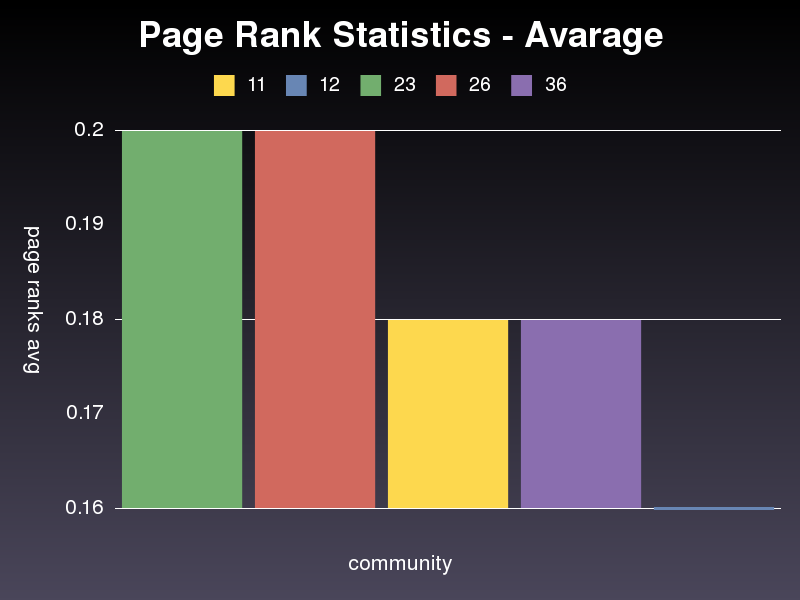
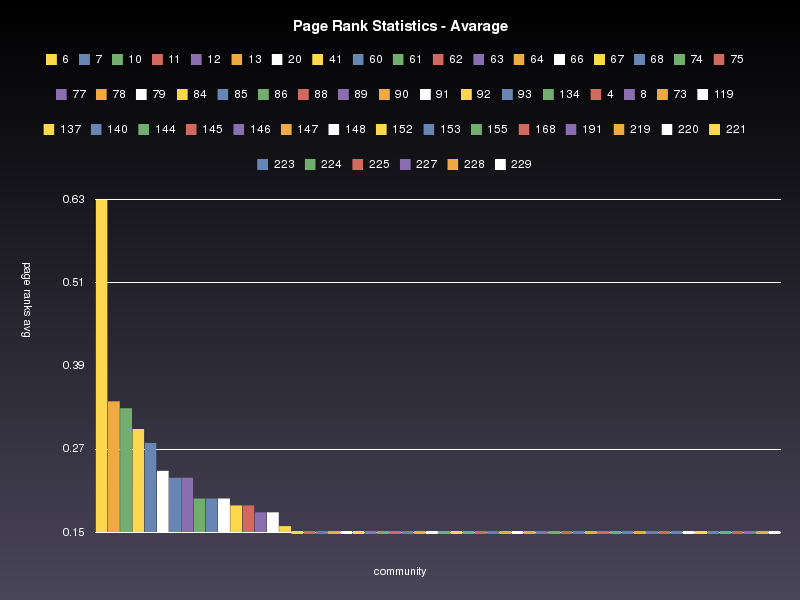
Changed displaying charts

diff --git a/lib/twitter_analyser.rb b/lib/twitter_analyser.rb
@@ -17,8 +17,8 @@ class TwitterAnalyser
   def initialize
     puts 'Init started...'
     self.nodes = {}
-    #User.order(:id).limit(100).each do |u|
-    User.order(:id).limit(3000).each do |u|
+    User.order(:id).limit(100).each do |u|
+    #User.order(:id).limit(3000).each do |u|
     #User.each do |u|
       self.nodes[u.id] = Node.new(u.id) if u.twitts.any? { |t| t.parent && t.parent.user_id }
     end
@@ -126,12 +126,12 @@ class TwitterAnalyser
     communities = Community.filter(:cutoff => true).all
     page_rank_min = communities.map { |c| [c.id, page_ranks_min(c.id)[:page_rank]] }
     page_rank_max = communities.map { |c| [c.id, page_ranks_max(c.id)[:page_rank]] }
-    users_min = communities.map { |c| [c.id, page_ranks_min(c.id)[:user]] }.map { |pair| "#{pair[0]} => #{pair[1]}" }.join(', ')
-    users_max = communities.map { |c| [c.id, page_ranks_max(c.id)[:user]] }.map { |pair| "#{pair[0]} => #{pair[1]}" }.join(', ')
+    users_min = communities.map { |c| [c.id, page_ranks_min(c.id)[:user]] }.map { |pair| "#{pair[0]} => #{pair[1]}" }.join("\n")
+    users_max = communities.map { |c| [c.id, page_ranks_max(c.id)[:user]] }.map { |pair| "#{pair[0]} => #{pair[1]}" }.join("\n")
     avg = communities.map { |c| [c.id, page_ranks_avg(c.id)] }
     sd = communities.map { |c| [c.id, page_ranks_standard_deviation(c.id)] }
-    draw_chart("Page Rank Statistics - Min", users_min, "page ranks min", page_rank_min, File.join(dir, "page_rank_statistics_min_chart"))
-    draw_chart("Page Rank Statistics - Max", users_max, "page ranks max", page_rank_max, File.join(dir, "page_rank_statistics_max_chart"))
+    draw_chart("Page Rank Statistics - Min", "community", "page ranks min", page_rank_min, File.join(dir, "page_rank_statistics_min_chart"), true, users_min)
+    draw_chart("Page Rank Statistics - Max", "community", "page ranks max", page_rank_max, File.join(dir, "page_rank_statistics_max_chart"), true, users_max)
     draw_chart("Page Rank Statistics - Avarage", "community", "page ranks avg", avg, File.join(dir, "page_rank_statistics_avg_chart"))
     draw_chart("Page Rank Statistics - Standard Deviation", "community", "page ranks sd", sd, File.join(dir, "page_rank_statistics_sd_chart"))
   end
@@ -157,7 +157,7 @@ class TwitterAnalyser
   end
 
   def self.page_ranks(community_id)
-    Community.first(:id => community_id).users.map { |u| [u.page_rank, u.name ? u.name : "unknown"] }.compact
+    Community.first(:id => community_id).users.map { |u| [u.page_rank, u.nick ? u.nick : "unknown"] }.compact
   end
 
   def self.page_ranks_min(community_id)
@@ -208,8 +208,13 @@ class TwitterAnalyser
     community_edges
   end
 
-  def self.draw_chart(title, x_label, y_label, data, file_name, legend=true)
+  def self.draw_chart(title, x_label, y_label, data, file_name, legend=true, additional_legend="")
     bar = Gruff::Bar.new
+
+    bar.marker_font_size = 11
+    bar.legend_font_size = 12
+    bar.title_font_size = 15
+    bar.legend_box_size = 10
 
     bar.title = title
     bar.x_axis_label = x_label
@@ -222,6 +227,12 @@ class TwitterAnalyser
       bar.data(id, e)
     end
 
+    if additional_legend
+      File.open(File.join('images', "#{file_name}_legend.txt"), 'w') do |f|
+        f.puts(additional_legend)
+      end
+    end
+    
     dest = File.join('images', "#{file_name}.png")
     bar.write(dest)
   end

diff --git a/lib/main.rb b/lib/main.rb
@@ -2,14 +2,14 @@ require 'config/environments/development'
 require 'lib/twitter_analyser'
 
 def analyse(definition_sym, dir)
-  t = TwitterAnalyser.new
-  t.detect_communities!(definition_sym)
-  TwitterAnalyser.cutoff_communities(Community.root, 70)
-
-  graphs = Graph.cutoff(t.graph, 70)
-  graphs.each do |graph|
-    TwitterAnalyser.compute_page_ranks!(graph)
-  end
+#  t = TwitterAnalyser.new
+#  t.detect_communities!(definition_sym)
+#  TwitterAnalyser.cutoff_communities(Community.root, 70)
+#
+#  graphs = Graph.cutoff(t.graph, 70)
+#  graphs.each do |graph|
+#    TwitterAnalyser.compute_page_ranks!(graph)
+#  end
   TwitterAnalyser.draw_page_ranks_statistics(dir)
 
   TwitterAnalyser.draw_dendrogram(dir)
